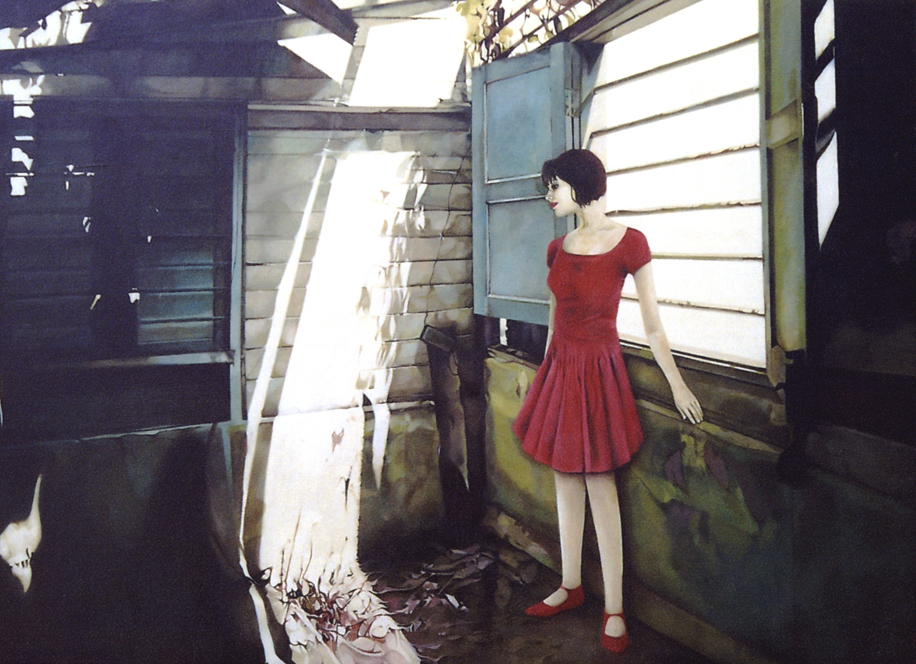
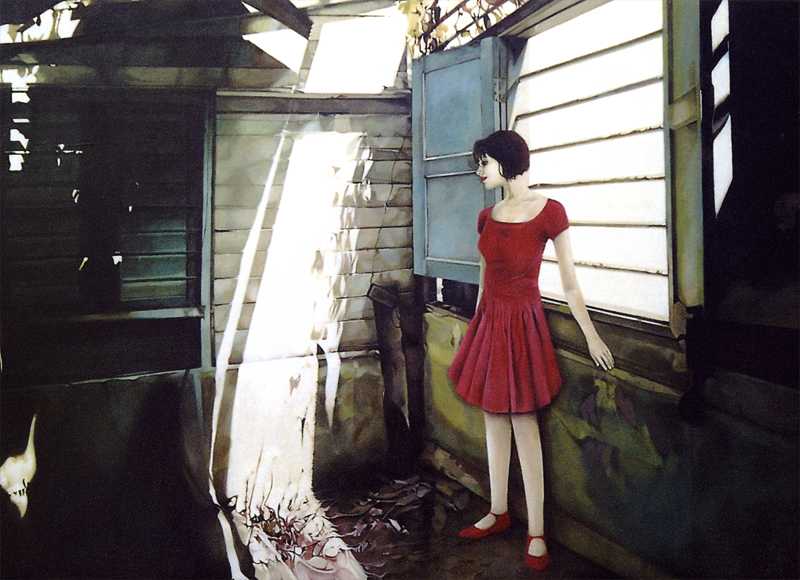
updated news and uploaded wayland girl painting

diff --git a/_posts/news/2020-01-11-15-years-of-thinkspace.md b/_posts/news/2020-01-11-15-years-of-thinkspace.md
@@ -6,7 +6,7 @@ opening: Saturday, January 11th
 on_view: January 11th - January 25th, 2020
 venue: Thinkspace Projects
 location: Los Angeles
-link: https://thinkspaceprojects.com/
+link: https://thinkspaceprojects.com/shows/15-years-of-thinkspace/show-pieces/?preview=OG2009TS
 image_url:
 date: 2020-01-11 06:00:00
 current: true

diff --git a/_posts/paintings/2020-01-11-wayland-girl.md b/_posts/paintings/2020-01-11-wayland-girl.md
@@ -1,0 +1,12 @@
+---
+layout: artwork
+title: Wayland Girl
+media: Oil
+surface: Wood Panel
+width: 15
+height: 15
+image_url: /images/paintings/wayland-girl.jpg
+image_thumb_url: /images/thumbnails/paintings/wayland-girl.jpg
+date:   2020-01-11
+tags: paintings wayland-girl thinkspace-projects jolene-lai 
+---
